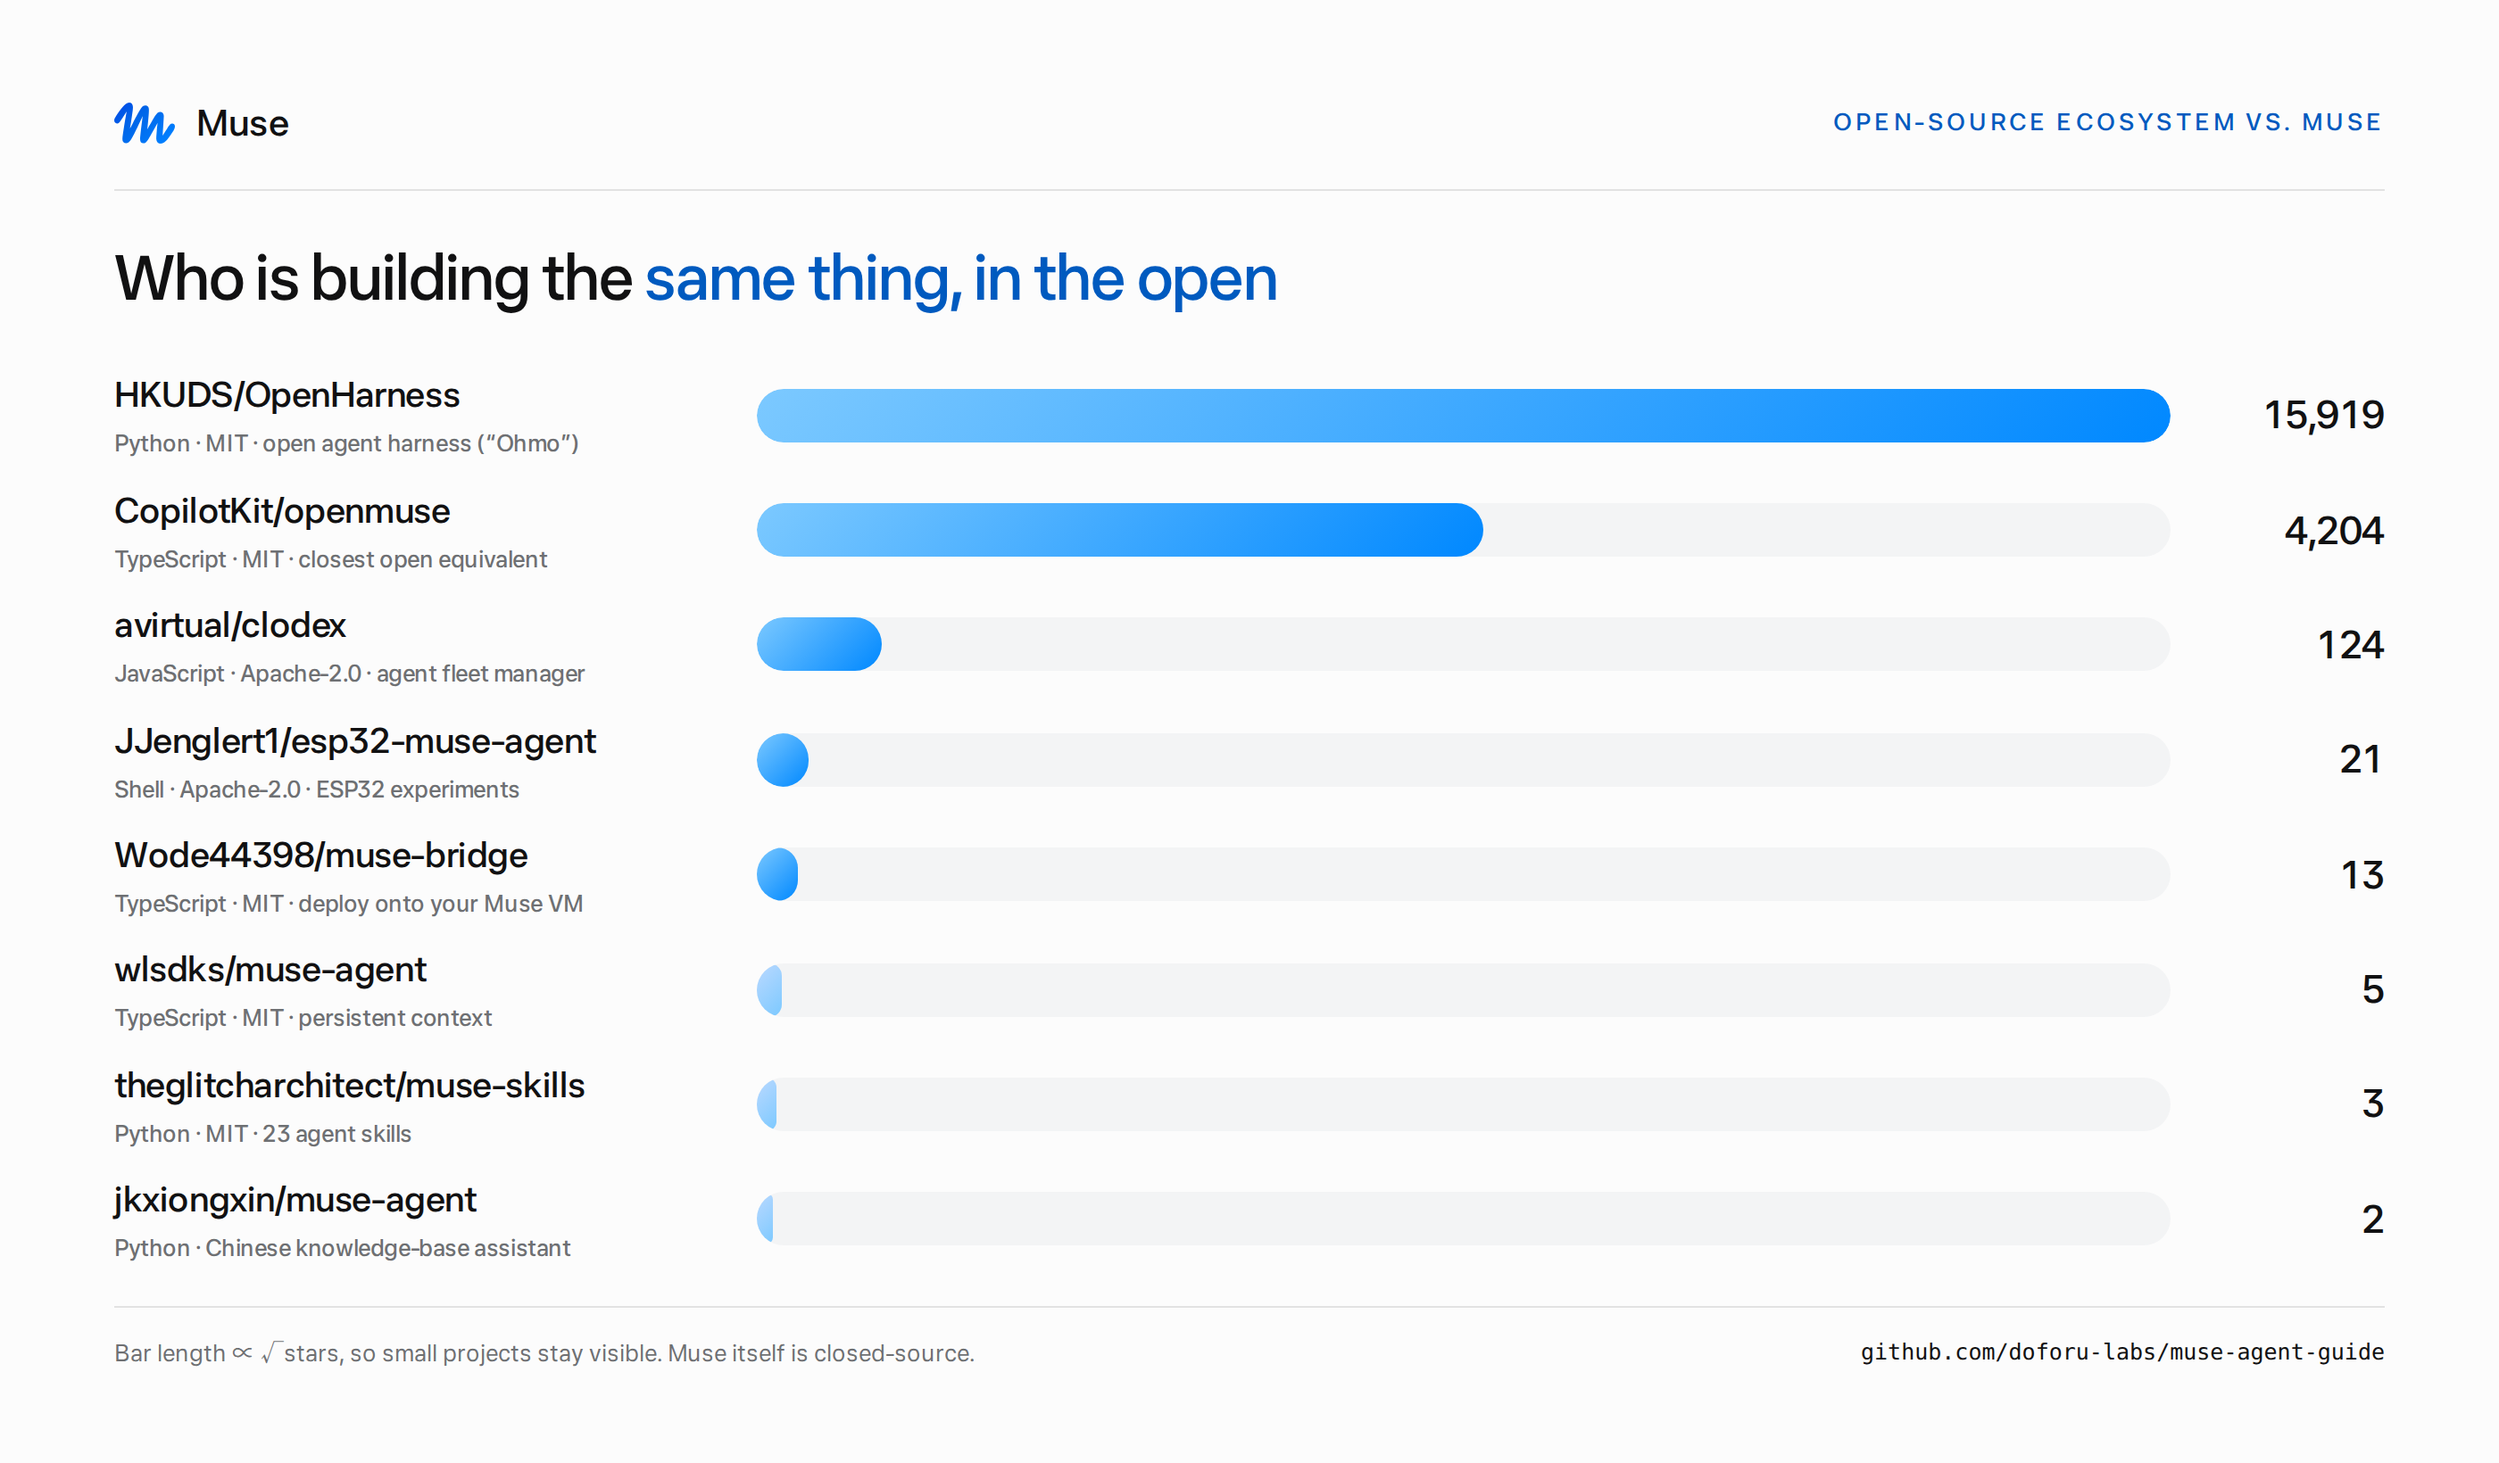
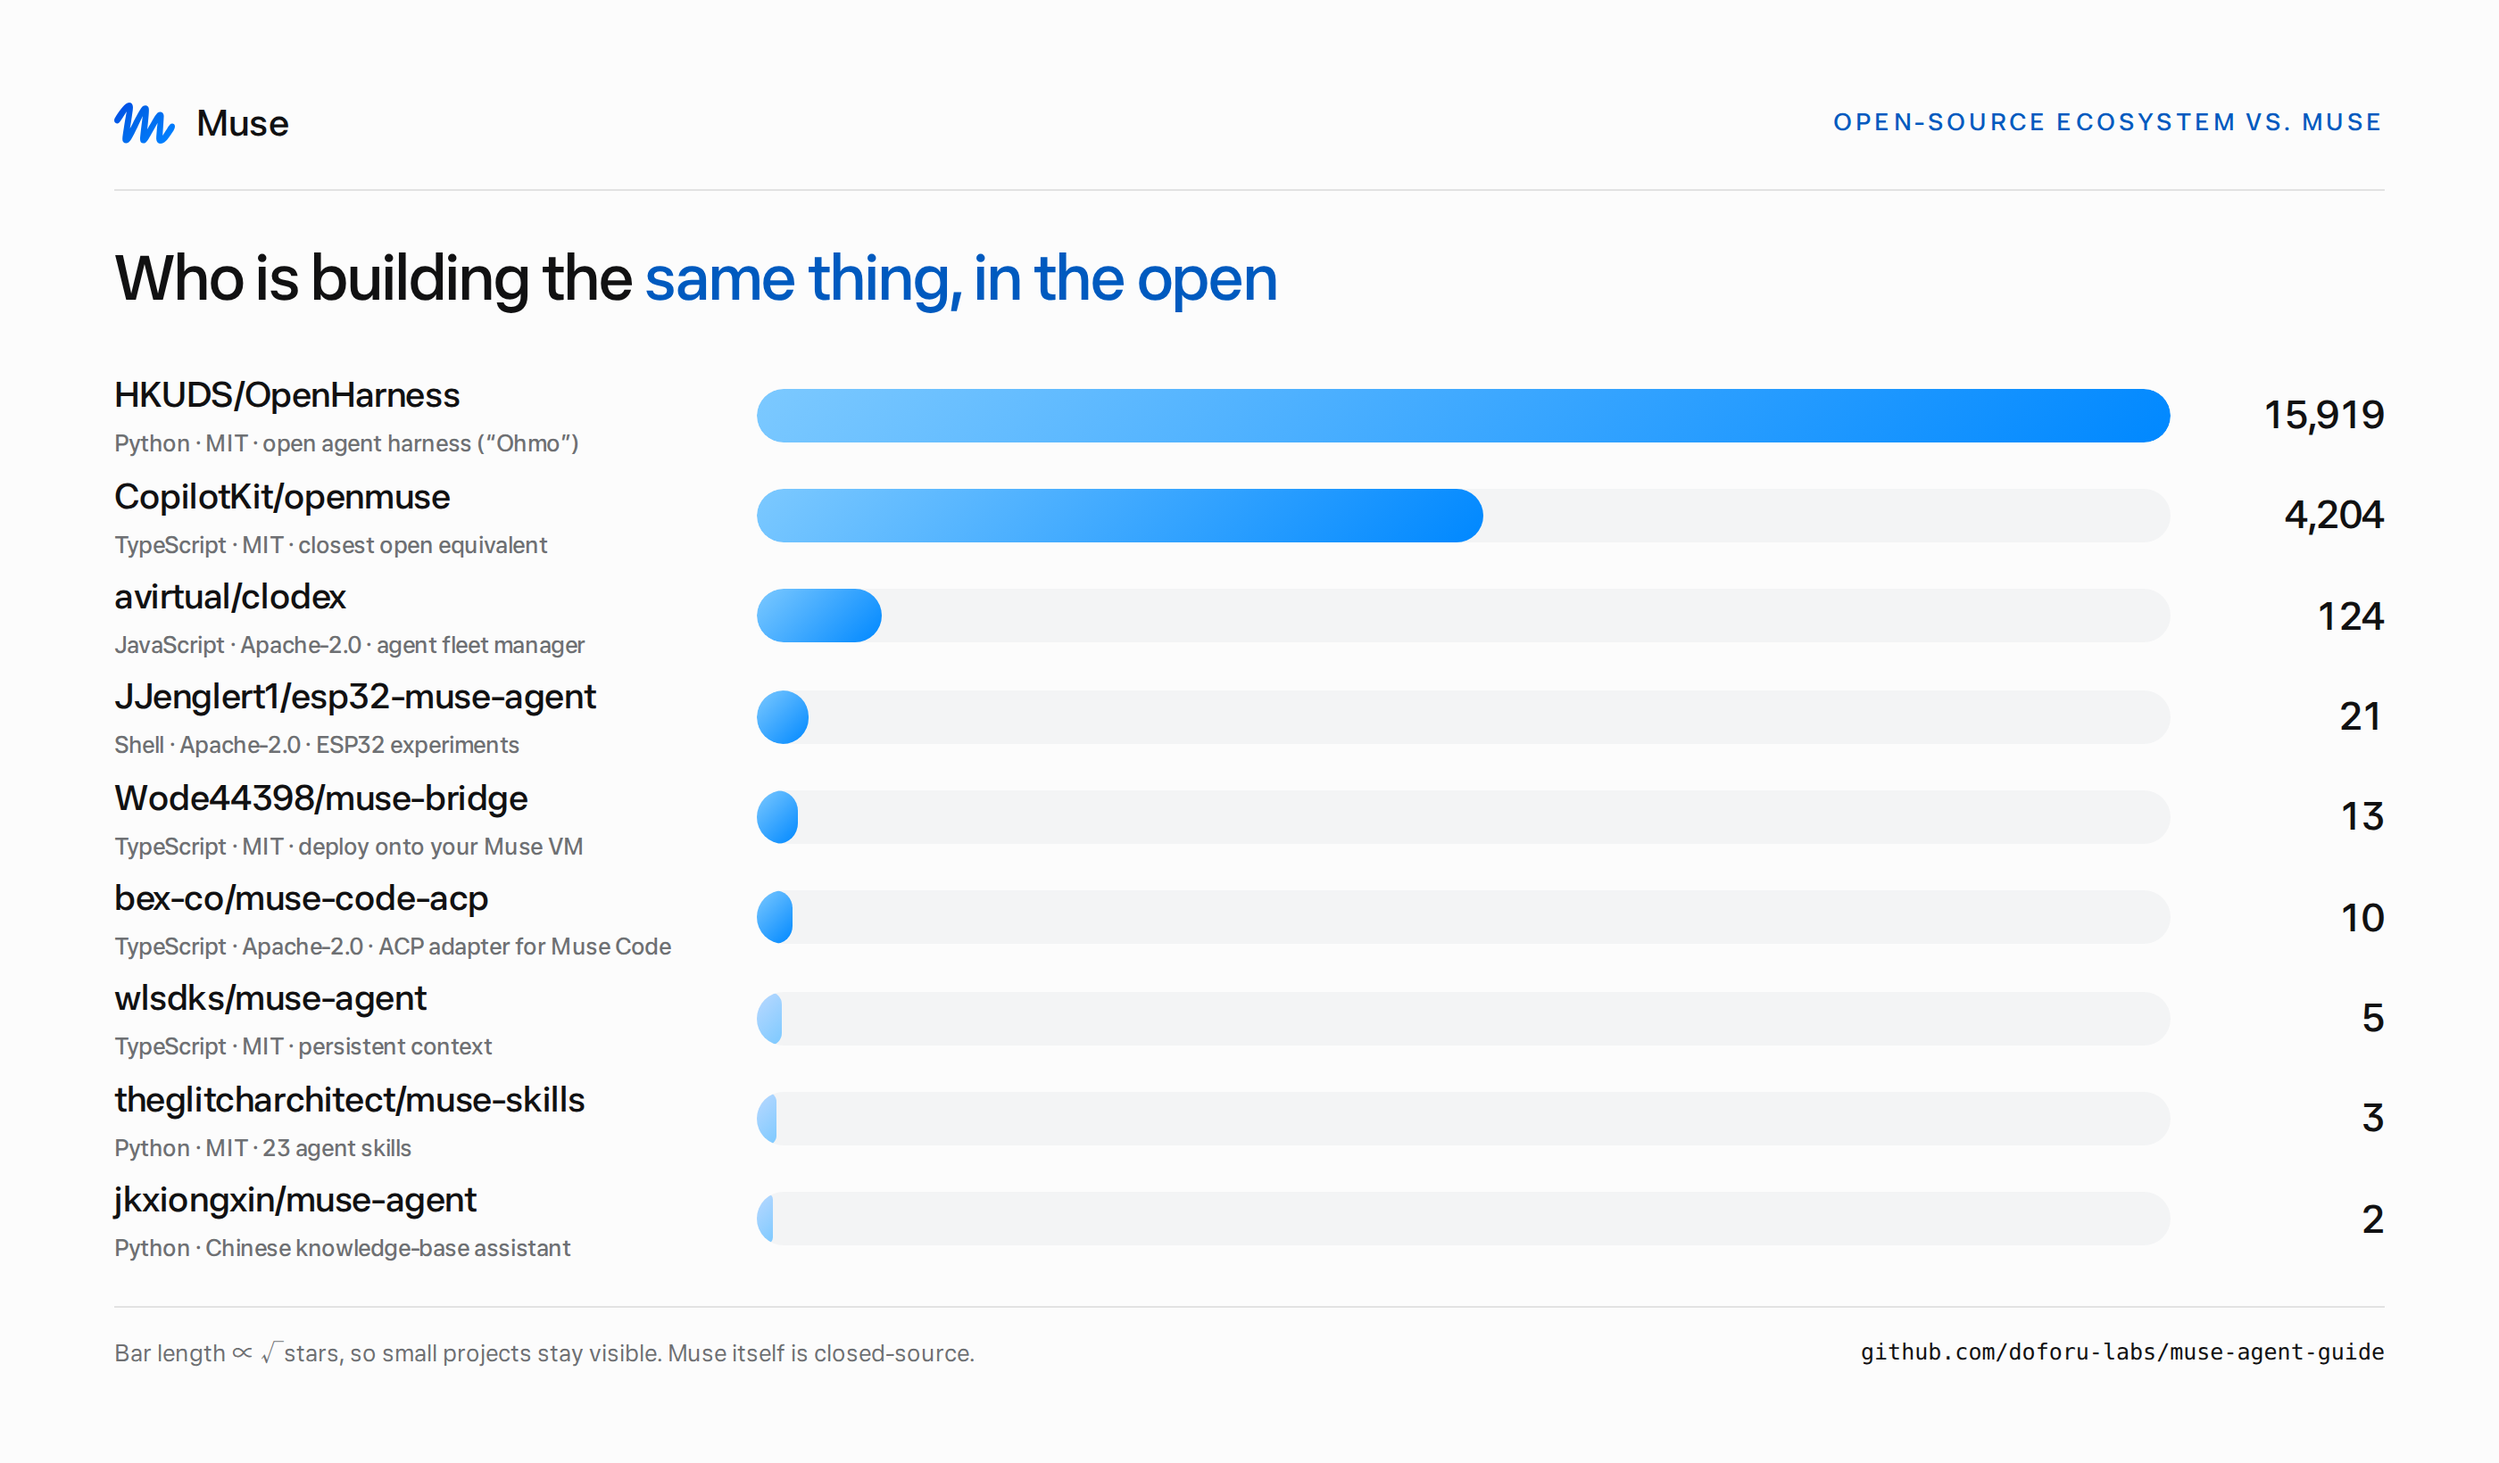
Add bex-co/muse-code-acp (unofficial ACP adapter for Muse Code) to ecosystem table; re-render ecosystem graphic

diff --git a/assets/src/ecosystem.html b/assets/src/ecosystem.html
@@ -34,6 +34,8 @@
       <div class="track"><div class="bar" style="width:3.6%"></div></div><div class="val">21</div></div>
     <div class="row"><div class="name">Wode44398/muse-bridge<em>TypeScript · MIT · deploy onto your Muse VM</em></div>
       <div class="track"><div class="bar" style="width:2.9%"></div></div><div class="val">13</div></div>
+    <div class="row"><div class="name">bex-co/muse-code-acp<em>TypeScript · Apache-2.0 · ACP adapter for Muse Code</em></div>
+      <div class="track"><div class="bar" style="width:2.5%"></div></div><div class="val">10</div></div>
     <div class="row"><div class="name">wlsdks/muse-agent<em>TypeScript · MIT · persistent context</em></div>
       <div class="track"><div class="bar dim" style="width:1.8%"></div></div><div class="val">5</div></div>
     <div class="row"><div class="name">theglitcharchitect/muse-skills<em>Python · MIT · 23 agent skills</em></div>

diff --git a/README.zh-CN.md b/README.zh-CN.md
@@ -21,7 +21,7 @@
 | [数据与来源 →](data.zh-CN.md) | 每个数字都带日期与出处,附复现命令 |
 | [时间线 →](timeline.zh-CN.md) | 发布 → 小企业线 → TIME 调查 → 今天 |
 | [资源大全 →](resources.zh-CN.md) | 官方页面、媒体报道、开源生态、工具 |
-| [开源替代与生态](#五开源替代与生态) | 8 个项目,含星数与许可 |
+| [开源替代与生态](#五开源替代与生态) | 9 个项目,含星数与许可 |
 | [隐私争议](#四隐私争议该看的部分) | TIME 调查四点 + Meta 的回应 |
 | [English →](README.md) | 英文默认版(全部内容) |
 
@@ -143,6 +143,7 @@ Meta 官方定义(来源:`about.fb.com/news/2026/09/introducing-muse-personal-ai
 | [avirtual/clodex](https://github.com/avirtual/clodex) | 124 | JavaScript | Apache-2.0 | 管理 Claude Code / Codex / **Muse** agent 集群的可视化面板 |
 | [JJenglert1/esp32-muse-agent](https://github.com/JJenglert1/esp32-muse-agent) | 21 | Shell | Apache-2.0 | 在 ESP32 上跑 Muse agent(硬件玩法) |
 | [Wode44398/muse-bridge](https://github.com/Wode44398/muse-bridge) | 13 | TypeScript | MIT | 一条消息把 Claude Code 部署到你的 Muse VM 上 |
+| [bex-co/muse-code-acp](https://github.com/bex-co/muse-code-acp) | 10 | TypeScript | Apache-2.0 | 非官方 ACP 适配器:在 Zed / VS Code 等 ACP 编辑器里用 Muse Code |
 | [theglitcharchitect/muse-skills](https://github.com/theglitcharchitect/muse-skills) | 3 | Python | MIT | 面向 Muse agent 的 23 个 skill 库 + 决策层 |
 | [wlsdks/muse-agent](https://github.com/wlsdks/muse-agent) | 5 | TypeScript | MIT | 跨会话保留上下文的个人 agent |
 | [jkxiongxin/muse-agent](https://github.com/jkxiongxin/muse-agent) | 2 | Python | — | 中文知识库助手(缪斯助手) |
@@ -192,6 +193,7 @@ Meta 官方定义(来源:`about.fb.com/news/2026/09/introducing-muse-personal-ai
 ## 更新日志
 
 - `2026-10-08` 初版:官方事实、隐私调查要点、生态表(8 个项目)、FAQ、资源集合
+- `2026-10-08` 生态增补:收录 `bex-co/muse-code-acp`(★10 · Apache-2.0 · TypeScript,非官方 ACP 适配器,让 Muse Code 跑在 Zed / VS Code 等 ACP 编辑器里;npm 首发 2026-08-27、最新 0.8.0),生态表 8 → 9;搜索总量复核仍为 594
 - `2026-10-08` 核验更新(官方页面内容变化复核):
   - 补官方**小企业线**(Muse for Small Business,2026-09-29 公告 + `muse.ai/business`)
   - 可用地区由"美国首发"更正为**美国 + 加拿大(18+)**,并补其它市场官方口径

diff --git a/README.md b/README.md
@@ -25,7 +25,7 @@
 |---|---|
 | [What it can do](#what-can-it-do) | The capability list, including the 15+ official connectors |
 | [The privacy story](#4-the-privacy-story-you-should-read) | TIME's investigation, in four points, with Meta's response |
-| [Open-source ecosystem](#5-open-source-alternatives--ecosystem) | 8 projects with stars and licences |
+| [Open-source ecosystem](#5-open-source-alternatives--ecosystem) | 9 projects with stars and licences |
 | [Data & sources →](data.md) | Every number, dated, with how to reproduce it |
 | [Timeline →](timeline.md) | Announcement → small business → investigation → today |
 | [Resources →](resources.md) | Official pages, coverage, ecosystem, tools |
@@ -147,6 +147,7 @@ Star counts captured **2026-10-08** via the GitHub API (see [`data.md`](data.md)
 | [avirtual/clodex](https://github.com/avirtual/clodex) | 124 | JavaScript | Apache-2.0 | Visual manager for fleets of Claude Code / Codex / **Muse** agents |
 | [JJenglert1/esp32-muse-agent](https://github.com/JJenglert1/esp32-muse-agent) | 21 | Shell | Apache-2.0 | Muse agent experiments on ESP32 hardware |
 | [Wode44398/muse-bridge](https://github.com/Wode44398/muse-bridge) | 13 | TypeScript | MIT | One message deploys Claude Code onto your Muse VM |
+| [bex-co/muse-code-acp](https://github.com/bex-co/muse-code-acp) | 10 | TypeScript | Apache-2.0 | Unofficial ACP adapter — run Muse Code inside Zed / VS Code and other Agent Client Protocol editors |
 | [wlsdks/muse-agent](https://github.com/wlsdks/muse-agent) | 5 | TypeScript | MIT | Personal agent that keeps context between conversations |
 | [theglitcharchitect/muse-skills](https://github.com/theglitcharchitect/muse-skills) | 3 | Python | MIT | 23-skill library for Muse agents + a decision layer |
 | [jkxiongxin/muse-agent](https://github.com/jkxiongxin/muse-agent) | 2 | Python | — | Chinese knowledge-base assistant |
@@ -195,3 +196,4 @@ A chat assistant answers one turn at a time; Muse is an agent **with its own com
 ## Changelog
 
 - `2026-10-08` — English README published; verified availability (US + Canada 18+), connector list, announcement dates against primary sources; Chinese version moved to `README.zh-CN.md`.
+- `2026-10-08` — Ecosystem addition: `bex-co/muse-code-acp` (★10 · Apache-2.0 · TypeScript) — an unofficial ACP adapter for Muse Code in Zed / VS Code; ecosystem table 8 → 9. Search total re-checked: still 594.

diff --git a/data.md b/data.md
@@ -32,11 +32,12 @@ Captured **2026-10-08 (UTC+8)**. Stars move fast — treat as a snapshot, not a 
 | avirtual/clodex | 124 | 2026-10-08 | JavaScript | Apache-2.0 |
 | JJenglert1/esp32-muse-agent | 21 | 2026-10-04 | Shell | Apache-2.0 |
 | Wode44398/muse-bridge | 13 | 2026-10-07 | TypeScript | MIT |
+| bex-co/muse-code-acp | 10 | 2026-10-08 | TypeScript | Apache-2.0 |
 | wlsdks/muse-agent | 5 | 2026-09-03 | TypeScript | MIT |
 | theglitcharchitect/muse-skills | 3 | 2026-09-21 | Python | MIT |
 | jkxiongxin/muse-agent | 2 | 2026-07-30 | Python | — |
 
-**Search volume:** GitHub search `muse agent in:name,description` returned **`total_count = 594`** (2026-10-08, re-checked twice). The overwhelming majority are unrelated to "Meta Muse, personal agent"; only the 8 relevant repositories are listed in the table above. The +1 over the first capture of that day is a single newly created repository, `kiragamingofficial95-cmd/nexus-ai` — re-running the query with a `user:kiragamingofficial95-cmd` filter returns exactly that one repository, which is how the increment was attributed. It is recorded as "new, not yet vetted" in [`resources.md`](resources.md) rather than listed here.
+**Search volume:** GitHub search `muse agent in:name,description` returned **`total_count = 594`** (2026-10-08, re-checked twice). The overwhelming majority are unrelated to "Meta Muse, personal agent"; only the 9 relevant repositories are listed in the table above. The +1 over the first capture of that day is a single newly created repository, `kiragamingofficial95-cmd/nexus-ai` — re-running the query with a `user:kiragamingofficial95-cmd` filter returns exactly that one repository, which is how the increment was attributed. It is recorded as "new, not yet vetted" in [`resources.md`](resources.md) rather than listed here.
 
 > **Correction log:** an earlier version of this file said "48 related repositories". That figure was the length of the watchdog's tracked list, **not** the search total. Corrected to 593 on 2026-10-08.
 

diff --git a/data.zh-CN.md b/data.zh-CN.md
@@ -30,11 +30,12 @@
 | avirtual/clodex | 124 | 2026-10-08 | JavaScript | Apache-2.0 |
 | JJenglert1/esp32-muse-agent | 21 | 2026-10-04 | Shell | Apache-2.0 |
 | Wode44398/muse-bridge | 13 | 2026-10-07 | TypeScript | MIT |
+| bex-co/muse-code-acp | 10 | 2026-10-08 | TypeScript | Apache-2.0 |
 | wlsdks/muse-agent | 5 | 2026-09-03 | TypeScript | MIT |
 | theglitcharchitect/muse-skills | 3 | 2026-09-21 | Python | MIT |
 | jkxiongxin/muse-agent | 2 | 2026-07-30 | Python | — |
 
-**相关仓库样本量**:GitHub 搜索 `muse agent in:name,description` 返回 `total_count = 594`(2026-10-08,复核两次);绝大多数与"Meta Muse 个人 agent"无关,本仓库只精挑上表 8 个入表。相比当天首次抓取 +1 的,是一条刚建的仓库 `kiragamingofficial95-cmd/nexus-ai` —— 用 `user:kiragamingofficial95-cmd` 过滤重跑该搜索,恰好只返回它一个,增量由此归因;它按"新出现、未验证"记在 [`resources.zh-CN.md`](resources.zh-CN.md) 里,未进上表。此前版本写的"48 个"来自看门狗的跟踪名单长度,不是搜索总量,已更正。
+**相关仓库样本量**:GitHub 搜索 `muse agent in:name,description` 返回 `total_count = 594`(2026-10-08,复核两次);绝大多数与"Meta Muse 个人 agent"无关,本仓库只精挑上表 9 个入表。相比当天首次抓取 +1 的,是一条刚建的仓库 `kiragamingofficial95-cmd/nexus-ai` —— 用 `user:kiragamingofficial95-cmd` 过滤重跑该搜索,恰好只返回它一个,增量由此归因;它按"新出现、未验证"记在 [`resources.zh-CN.md`](resources.zh-CN.md) 里,未进上表。此前版本写的"48 个"来自看门狗的跟踪名单长度,不是搜索总量,已更正。
 
 ## 三、TIME 调查中的关键事实(2026-10-06)
 

diff --git a/resources.md b/resources.md
@@ -48,6 +48,7 @@
 |---|---|---|
 | [avirtual/clodex](https://github.com/avirtual/clodex) | 124 | Manage fleets of Claude Code / Codex / Muse agents |
 | [Wode44398/muse-bridge](https://github.com/Wode44398/muse-bridge) | 13 | One message deploys Claude Code onto your Muse VM |
+| [bex-co/muse-code-acp](https://github.com/bex-co/muse-code-acp) | 10 | **Unofficial** ACP adapter — drive Muse Code from Zed, VS Code and other Agent Client Protocol editors (npm `@bex-co/muse-code-acp`) |
 | [theglitcharchitect/muse-skills](https://github.com/theglitcharchitect/muse-skills) | 3 | 23 Muse agent skills + a decision layer |
 | [wlsdks/muse-agent](https://github.com/wlsdks/muse-agent) | 5 | Personal agent that keeps context across sessions |
 | [jkxiongxin/muse-agent](https://github.com/jkxiongxin/muse-agent) | 2 | Chinese knowledge-base assistant |

diff --git a/resources.zh-CN.md b/resources.zh-CN.md
@@ -50,6 +50,7 @@
 |---|---|---|
 | [avirtual/clodex](https://github.com/avirtual/clodex) | 124 | 统一管理 Claude Code / Codex / Muse 的 agent 集群 |
 | [Wode44398/muse-bridge](https://github.com/Wode44398/muse-bridge) | 13 | 一条消息把 Claude Code 部署到你的 Muse VM |
+| [bex-co/muse-code-acp](https://github.com/bex-co/muse-code-acp) | 10 | **非官方** ACP 适配器:在 Zed / VS Code 等 Agent Client Protocol 编辑器里跑 Muse Code(npm `@bex-co/muse-code-acp`) |
 | [theglitcharchitect/muse-skills](https://github.com/theglitcharchitect/muse-skills) | 3 | 23 个 Muse agent skill + 决策层 |
 | [wlsdks/muse-agent](https://github.com/wlsdks/muse-agent) | 5 | 跨会话保留上下文的个人 agent |
 | [jkxiongxin/muse-agent](https://github.com/jkxiongxin/muse-agent) | 2 | 中文知识库助手 |
